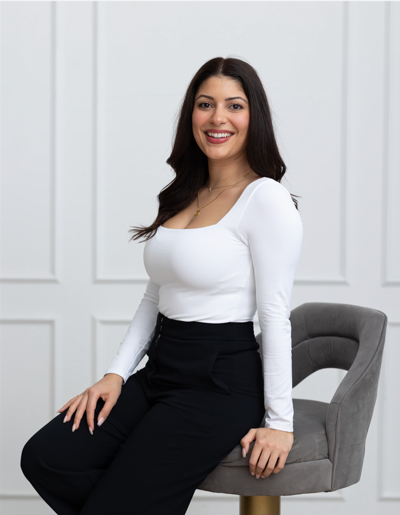
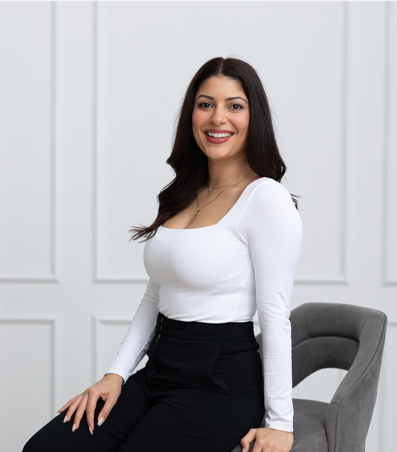
30u30 profiles updated

diff --git a/components/pages/Under30.jsx b/components/pages/Under30.jsx
@@ -3,8 +3,7 @@ import Card from '../global/Card30';
 import Footer from '../global/Footer'
 import emily from '../../public/emily1.png';
 import rory from '../../public/rory.jpg';
-import img13 from '../../public/13.jpg';
-import neha from '../../public/neha.jpg';
+import sahiba from '../../public/sahiba.jpg';
 import divija from '../../public/divija.jpeg';
 import subham from '../../public/subham.jpeg'
 import rani from '../../public/ranirampal.jpg'
@@ -32,7 +31,7 @@ const Under30 = () => {
                 <div className='md:w-3/4 mx-auto text-center mt-24'>
                     <div className='grid grid-cols-1 sm:grid-cols-3 gap-5 lg:gap-15 px-12 sm:px-0'>
                         <Card socialImg={rory} link={'/30-under-30/social-impact'} caption={'Social Impact'} />
-                        <Card socialImg={divija} link={'/30-under-30/healthcare'} caption={'Healthcare'} />
+                        <Card socialImg={divija} link={'/30-under-30/healthcare'} caption={'STEM & Healthcare'} />
                         <Card socialImg={subham} link={'/30-under-30/finance'} caption={'Finance'} />
                     </div>
                 </div>
@@ -45,7 +44,7 @@ const Under30 = () => {
                 </div> */}
                 <div className='md:w-3/4 mx-auto text-center mt-24'>
                     <div className='grid grid-cols-1 sm:grid-cols-3 gap-5 lg:gap-15 px-12 md:px-0'>
-                        <Card socialImg={neha} link={'/30-under-30/marketing'} caption={'Marketing'} />
+                        <Card socialImg={sahiba} link={'/30-under-30/marketing'} caption={'Marketing'} />
                         <Card socialImg={avanti} link={'/30-under-30/artists'} caption={'Artists'} />
                         <Card socialImg={rani} link={'/30-under-30/sports'} caption={'Sports'} />
 

diff --git a/pages/30-under-30/[category]/index.js b/pages/30-under-30/[category]/index.js
@@ -3,6 +3,8 @@ import Image from 'next/image';
 import React, { useState, useEffect } from 'react';
 import { useRouter } from 'next/router';
 import Container from '../../../components/global/Container'
+import Footer from '../../../components/global/Footer';
+
 function Popup({ currentProfile, setShowPopup }) {
   const router = useRouter();
   const category = router.query.category;
@@ -87,15 +89,16 @@ export default function Category({ category }) {
   return (
     <>
       <Container>
-        <h1 className='mt-48 text-3xl'>{category}</h1>
-        <div className='my-12 grid grid-cols-2 gap-10'>
+        {/* <h1 className='mt-48 text-3xl'>{category}</h1> */}
+        <div className='my-12 mt-36 grid grid-cols-2 gap-10'>
           {categoryProfiles.map(profile => (
             <div key={profile.name} className="hover:cursor-pointer">
               <a onClick={() => openPopup(profile.name)}>
                 <div className="h-[300px] md:h-[500px] w-full">
-                  <img src={profile.img} alt="" className="h-full w-full object-cover hover:shadow-lg hover:shadow-blue-600 my-5" />
+                  <img src={profile.img} alt="" className="h-full w-full object-cover hover:shadow-lg hover:shadow-[#FF7F50] my-5" />
                 </div>
-                {profile.name}
+                <p className='text-center p-5 font-black text-2xl text-black uppercase'>{profile.age} | {profile.name}</p>
+                <p className='text-center text-lg'>{profile.occupation}</p>
               </a>
             </div>
           ))}
@@ -108,6 +111,7 @@ export default function Category({ category }) {
           />
         )}
       </Container>
+      <Footer/>
 
     </>
   );

diff --git a/components/global/Card30.jsx b/components/global/Card30.jsx
@@ -5,11 +5,11 @@ import React from 'react';
 const GalleryImg = ({ socialImg, caption, link }) => {
   return (
     <Link href={link}>
-      <div className='my-5 relative hover:text-blue-600 hover:cursor-pointer h-[300px] w-[300px]  mx-auto sm:w-full lg:h-[500px]'>
+      <div className='my-5 relative hover:text-[#FF7F50] hover:cursor-pointer h-[300px] w-[300px]  mx-auto sm:w-full lg:h-[500px]'>
         {/* Set a fixed height for the container element */}
         {/* You can adjust the height value to fit your design */}
         
-        <div className='hover:shadow-blue-600 hover:shadow-lg h-full w-full'>
+        <div className='hover:shadow-[#FF7F50] hover:shadow-xl h-full w-full'>
           <Image
             placeholder="blur"
             src={socialImg}
@@ -19,7 +19,7 @@ const GalleryImg = ({ socialImg, caption, link }) => {
           />
         </div>
 
-        <p className='h-20 p-8 text-2xl font-bold uppercase '>{caption}</p>
+        <p className='p-5 text-2xl md:text-3xl font-black uppercase '>{caption}</p>
       </div>
     </Link>
   );
